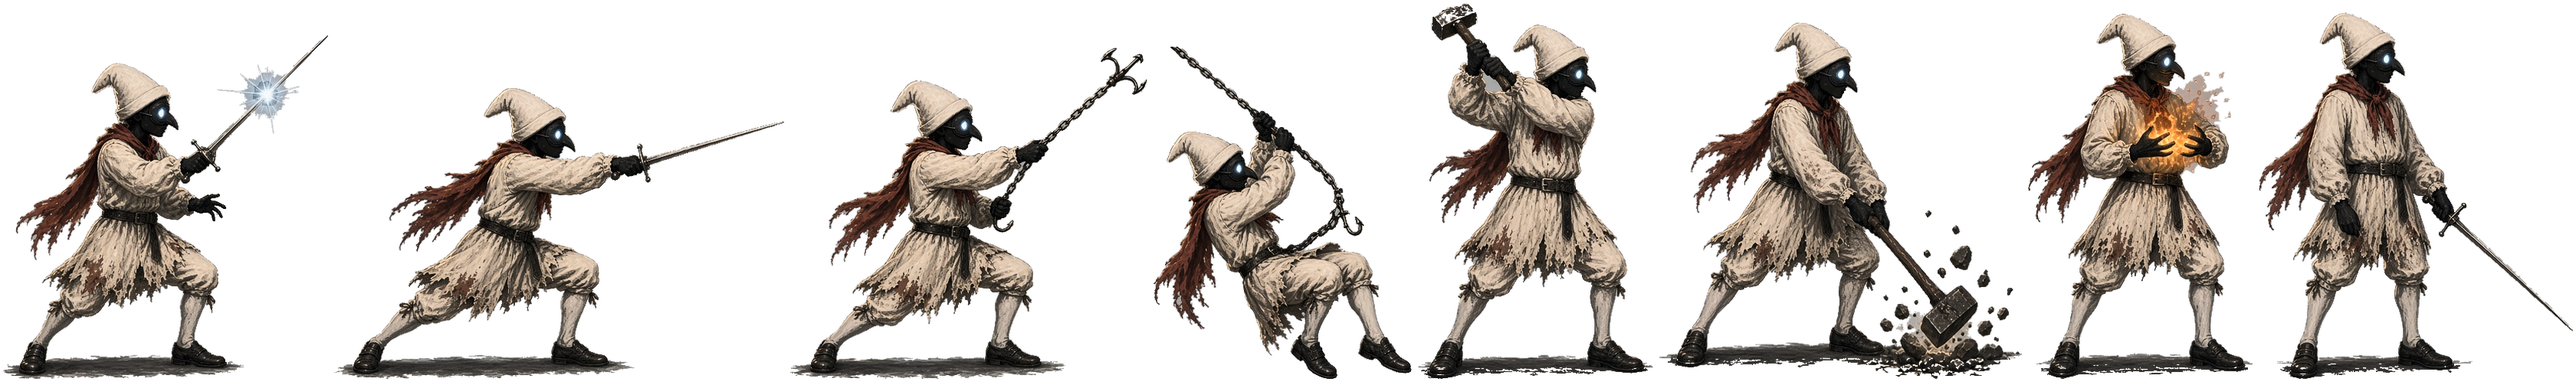
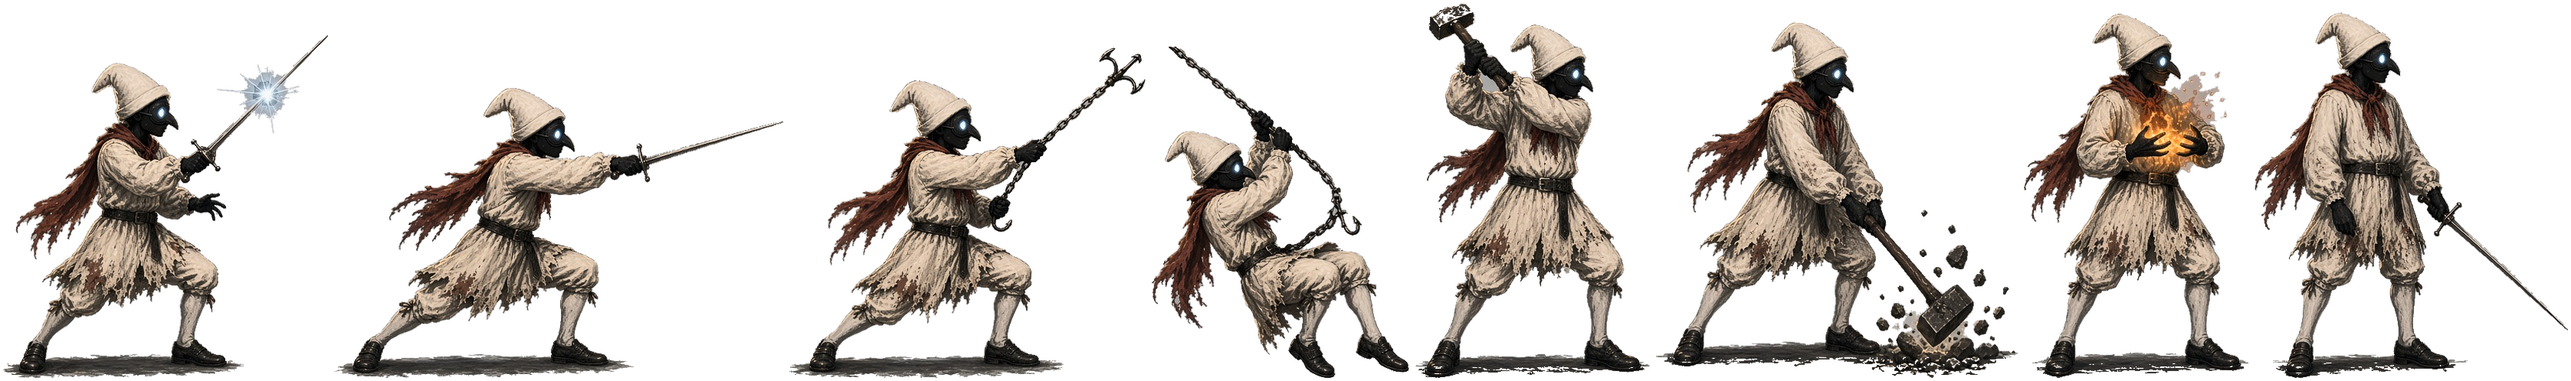
fix(ferruccio): revisione CONTROLLO-SLICE3 A: atlante attacco +15% luminosità, corsa -15% saturazione; scala delle pose 15/16 su una figura in piedi di riferimento; pavimento stanza 6 p90 #8A6235; note in PROVVISORIO.md

diff --git a/tools/art/ferruccio_v2/pose_v2.py b/tools/art/ferruccio_v2/pose_v2.py
@@ -10,6 +10,7 @@ from scipy import ndimage as nd
 SRCDIR=os.environ.get('SRCDIR','/workspace/ferruccio-art/grok/')
 OUT=os.environ.get('OUT','/workspace/artproc/ferr_v2/')
 M=4
+REF={'15-ferruccio-salto-scatto-colpito-02.jpg':5,'16-ferruccio-parata-rampino-martello-cura-02.jpg':7}
 SHEETS={
  'frames_salto':('15-ferruccio-salto-scatto-colpito-02.jpg',
    ['salita','apice','caduta','doppio_salto','scatto','fine_scatto','colpito','ripresa_colpo']),
@@ -56,8 +57,9 @@ def cut(fname,names,ref_height=1004*0.95,mult=0.5):
         dist,(iy,ix)=nd.distance_transform_edt(lab==0,return_indices=True)
         near=lab[iy,ix]; ok=rest&(dist<80); lab[ok]=near[ok]
     cells=[lab==i+1 for i in range(8)]
-    # scala: altezza mediana delle figure a terra (riga in basso)
-    hs=[np.ptp(np.where(k.any(axis=1))[0]) for k in cells[4:]]
+    # scala: una figura in piedi di riferimento per foglio (cappello -> piedi, senza lame o
+    # braccia sopra la testa), così tutte le clip escono a circa 150 px a 1080p come la corsa
+    hs=[np.ptp(np.where(cells[REF[fname]].any(axis=1))[0])]
     S=ref_height/np.median(hs)*mult
     soft=np.clip((diff-3)/20,0,1)
     imgs=[];meta=[]

diff --git a/tools/art/ferruccio_v2/uniforma_atlanti.py b/tools/art/ferruccio_v2/uniforma_atlanti.py
@@ -1,0 +1,12 @@
+## Uniforma gli atlanti di Ferruccio sull'avorio del 02 (CONTROLLO-SLICE3 punto 3), da lanciare
+## una volta dopo tono_02.py: attacco +15% di luminosità, corsa -15% di saturazione. Tinte invariate.
+## Uso: DIR=cartella python uniforma_atlanti.py
+import os, numpy as np
+from PIL import Image
+D=os.environ.get('DIR','src/assets/art/characters/ferruccio_cutout_v2/')
+def edit(name,fn):
+    a=np.asarray(Image.open(D+name).convert('RGBA')).astype(float)
+    a[...,:3]=np.clip(fn(a[...,:3]),0,255); Image.fromarray(a.astype(np.uint8),'RGBA').save(D+name)
+edit('frames_attacco.png',lambda c:c*1.15)
+edit('frames_corsa.png',lambda c:(lambda m:m+(c-m)*0.85)(c@np.array([0.299,0.587,0.114])[:,None] if False else (0.299*c[...,0:1]+0.587*c[...,1:2]+0.114*c[...,2:3])))
+print('ok')

diff --git a/src/assets/art/characters/ferruccio_cutout_v2/PROVVISORIO.md b/src/assets/art/characters/ferruccio_cutout_v2/PROVVISORIO.md
@@ -8,3 +8,9 @@
 - Hurt: rinculo 8 unità + 8° che si smorza in 0,25 s; il knockback resta quello del tuning.
 - Tono: tono_02.py schiarisce avorio e sciarpa con curva di sola luminanza (CORREZIONI §6); le tinte sono quelle dello 02.
 - Pavimento tema "oro" (stanza 6): terrain_tint da #e6d2b4 a #9c8e7a, p90 da rimisurare in gioco.
+
+## Revisione CONTROLLO-SLICE3 (commit A)
+- Contorno idle: risolto nel commit precedente (pezzi piatti nel CanvasGroup, niente z_index).
+- Stanza 6 (tema oro): pavimento p90 misurato #8A6235 (obiettivo <= #9A7A4E).
+- Atlante attacco +15% luminosità, corsa -15% saturazione (uniforma_atlanti.py); l'attacco ha qualche luce al limite (p90 ~#FFE7CB).
+- Scala dei fogli 15/16 normalizzata su una figura in piedi di riferimento per foglio: altezze in atlante 450-560 px come corsa/attacco (stessa canvas_per_px). Le pose accucciate (parata, cura, rampino) restano più basse per disegno.
